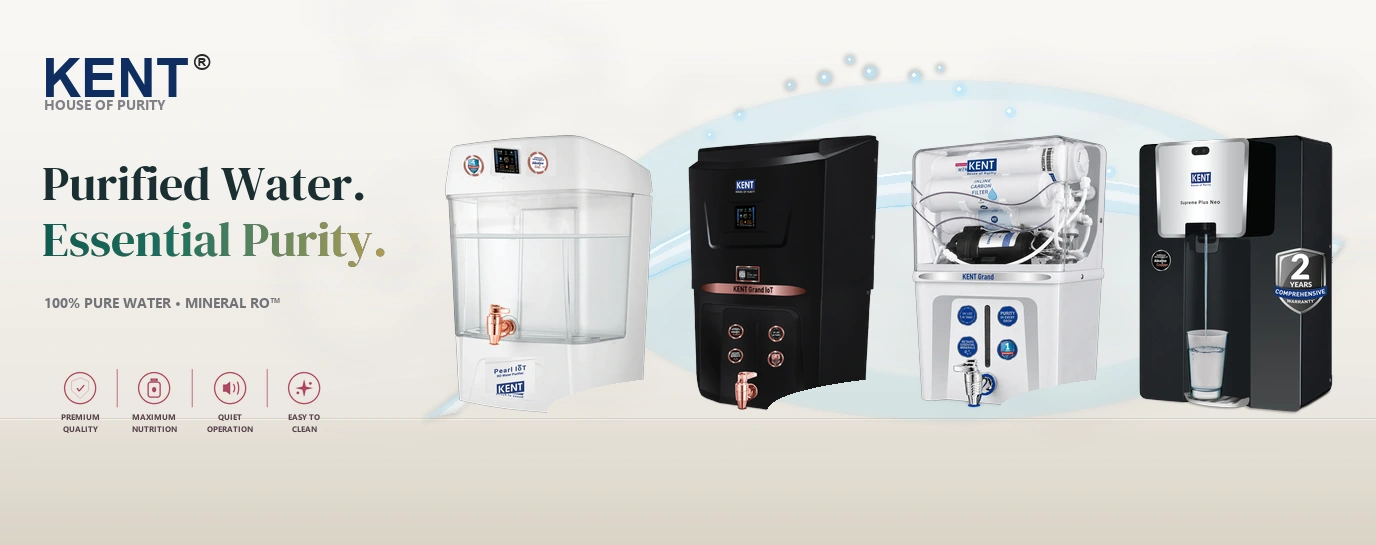
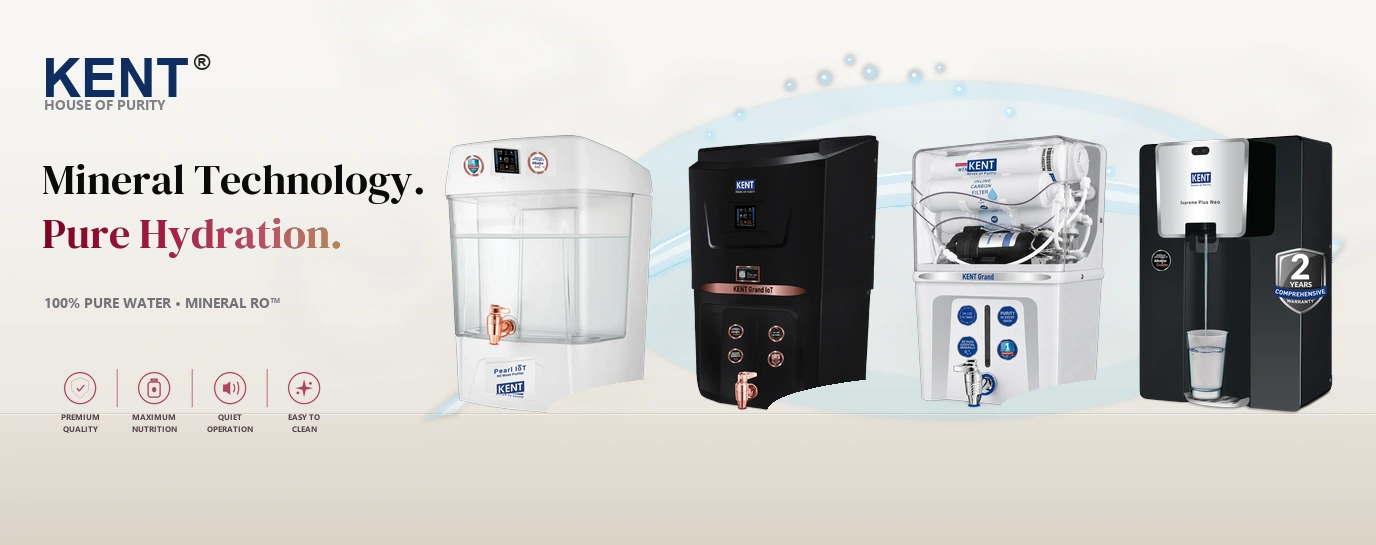
feat(hero): update tagline to Mineral Technology / Pure Hydration in DM Serif Display with website burgundy & gold palette

Changed region(s): [[0.0312, 0.2807, 0.3125, 0.3743], [0.0312, 0.4055, 0.2812, 0.4991]]

diff --git a/index.html b/index.html
@@ -140,7 +140,7 @@
                     <div class="detail-stage">
                         <div class="detail-stage-frame detail-stage-frame--poster">
                             <img class="detail-stage-poster" id="heroStagePoster"
-                                src="images/kent-purifiers-banner.webp?v=12.0" alt="KENT Water Purifiers lineup"
+                                src="images/kent-purifiers-banner.webp?v=13.0" alt="KENT Water Purifiers lineup"
                                 fetchpriority="high">
                         </div>
                     </div>

diff --git a/update_banner_tagline.py b/update_banner_tagline.py
@@ -6,51 +6,44 @@ WIDTH = 1376
 HEIGHT = 545
 
 # 1. Base Architectural Surface: Warm alabaster wall to grounded travertine floor
-# Wall: #F8F7F3 to #ECE8E1 (y: 0 to 425)
-# Floor plane: #E4DFD5 to #DAD4C8 (y: 425 to 545) with soft stone horizon
 banner = Image.new('RGB', (WIDTH, HEIGHT), (248, 247, 243))
 draw = ImageDraw.Draw(banner)
 
-FLOOR_Y = 418
+FLOOR_Y = 413
 
-# Draw Wall gradient (soft alabaster)
+# Draw Wall gradient (soft alabaster #F9F8F5 -> #ECE8E1)
 for y in range(FLOOR_Y):
     t = y / float(FLOOR_Y)
-    # #F9F8F5 (249, 248, 245) -> #ECE8E1 (236, 232, 225)
     r = int(249 - 13 * (t ** 1.2))
     g = int(248 - 16 * (t ** 1.2))
     b = int(245 - 20 * (t ** 1.2))
     draw.line([(0, y), (WIDTH, y)], fill=(r, g, b))
 
-# Draw Floor gradient (subtle grounded travertine/limestone plane)
+# Draw Floor gradient (grounded travertine/limestone plane #E7E2DA -> #DAD4C7)
 for y in range(FLOOR_Y, HEIGHT):
     t = (y - FLOOR_Y) / float(HEIGHT - FLOOR_Y)
-    # #E7E2DA (231, 226, 218) -> #DAD4C7 (218, 212, 199)
     r = int(231 - 13 * t)
     g = int(226 - 14 * t)
     b = int(218 - 19 * t)
     draw.line([(0, y), (WIDTH, y)], fill=(r, g, b))
 
-# Delicate floor horizon line with soft ambient contact occlusion
+# Floor horizon line with soft ambient contact occlusion
 draw.line([(0, FLOOR_Y), (WIDTH, FLOOR_Y)], fill=(215, 208, 196))
 draw.line([(0, FLOOR_Y + 1), (WIDTH, FLOOR_Y + 1)], fill=(245, 242, 236))
 
-# 2. Water Caustics Layer (Subtle, low-opacity 10-12% refracted sunlight effect across upper/mid wall)
+# 2. Water Caustics Layer (10-12% soft sun-refracted light web across upper/mid wall)
 caustic_layer = Image.new('RGBA', (WIDTH, HEIGHT), (0, 0, 0, 0))
 caustic_draw = ImageDraw.Draw(caustic_layer)
 
-# Create overlapping soft caustic light webs using bezier curves and light rings
 import random
 random.seed(42)
 
-# Cluster caustics mostly in top-right and center-right behind machines and upper wall
 for _ in range(35):
     cx = random.randint(300, WIDTH - 50)
     cy = random.randint(30, FLOOR_Y - 40)
     rx = random.randint(45, 110)
     ry = random.randint(25, 65)
     
-    # Caustic cell polygon / ellipse outline
     points = []
     num_pts = random.randint(5, 8)
     for i in range(num_pts):
@@ -64,7 +57,6 @@ for _ in range(35):
     caustic_draw.polygon(points, fill=(255, 255, 255, random.randint(8, 18)))
     caustic_draw.line(points + [points[0]], fill=(225, 245, 255, random.randint(18, 38)), width=random.randint(2, 4))
 
-# Soften caustics with Gaussian blur so they look like organic sunlight through crystal water
 caustic_layer = caustic_layer.filter(ImageFilter.GaussianBlur(16))
 banner = Image.alpha_composite(banner.convert('RGBA'), caustic_layer).convert('RGB')
 
@@ -72,13 +64,10 @@ banner = Image.alpha_composite(banner.convert('RGBA'), caustic_layer).convert('R
 water_arc_layer = Image.new('RGBA', (WIDTH, HEIGHT), (0, 0, 0, 0))
 arc_draw = ImageDraw.Draw(water_arc_layer)
 
-# Soft aqua/cyan ambient aura behind product cluster
 arc_draw.ellipse([580, 80, 1320, 420], fill=(56, 189, 248, 16))
 arc_draw.ellipse([700, 100, 1260, 380], fill=(186, 230, 253, 24))
 
-# Water Ribbon Path Coordinates: Sweeps gracefully up behind Pearl & Grand, crests behind Star & Supreme, and curves down
-# We draw layered translucent ribbons: Broad soft body, luminous core, and crisp specular crest
-def bezier_curve(p0, p1, p2, p3, steps=100):
+def bezier_curve(p0, p1, p2, p3, steps=120):
     pts = []
     for i in range(steps + 1):
         t = i / float(steps)
@@ -88,23 +77,18 @@ def bezier_curve(p0, p1, p2, p3, steps=100):
         pts.append((int(x), int(y)))
     return pts
 
-# Lower edge & Upper edge of sweeping water arc
-lower_pts = bezier_curve((420, 420), (620, 280), (840, 110), (1330, 260), steps=120)
-upper_pts = bezier_curve((460, 410), (640, 220), (860, 80), (1345, 240), steps=120)
+lower_pts = bezier_curve((420, 420), (620, 280), (840, 110), (1330, 260))
+upper_pts = bezier_curve((460, 410), (640, 220), (860, 80), (1345, 240))
 
-# Fill main water arc ribbon with translucent gradient
 ribbon_poly = lower_pts + upper_pts[::-1]
 arc_draw.polygon(ribbon_poly, fill=(186, 230, 253, 75))
 
-# Secondary luminous refraction ribbon (core)
-lower_core = bezier_curve((440, 415), (630, 255), (850, 100), (1335, 252), steps=120)
-upper_core = bezier_curve((455, 412), (638, 235), (858, 90), (1340, 246), steps=120)
+lower_core = bezier_curve((440, 415), (630, 255), (850, 100), (1335, 252))
+upper_core = bezier_curve((455, 412), (638, 235), (858, 90), (1340, 246))
 arc_draw.polygon(lower_core + upper_core[::-1], fill=(240, 249, 255, 110))
 
-# Specular light edge lines (pristine water crest refraction)
 for i in range(len(upper_pts) - 1):
     t = i / float(len(upper_pts))
-    # Alpha peaks around crest (t=0.5 to 0.75)
     alpha = int(220 * math.sin(t * math.pi))
     arc_draw.line([upper_pts[i], upper_pts[i+1]], fill=(255, 255, 255, alpha), width=3)
 
@@ -113,7 +97,6 @@ for i in range(len(lower_pts) - 1):
     alpha = int(140 * math.sin(t * math.pi))
     arc_draw.line([lower_pts[i], lower_pts[i+1]], fill=(125, 211, 252, alpha), width=2)
 
-# Tiny crystalline floating water drops/beads along the crest
 drops = [
     (790, 85, 4), (825, 78, 5.5), (870, 72, 6), (915, 76, 5), (960, 90, 4.5),
     (1010, 112, 5), (1060, 140, 4), (1110, 172, 5.5), (1165, 205, 4.5),
@@ -121,14 +104,10 @@ drops = [
 ]
 
 for dx, dy, dr in drops:
-    # Drop body
     arc_draw.ellipse([dx - dr, dy - dr, dx + dr, dy + dr], fill=(186, 230, 253, 140))
-    # Drop specular highlight
     arc_draw.ellipse([dx - dr*0.5, dy - dr*0.5, dx, dy], fill=(255, 255, 255, 230))
 
-# Soften outer edges slightly while keeping crest crisp
 water_arc_blurred = water_arc_layer.filter(ImageFilter.GaussianBlur(3))
-# Composite blurred + crisp core
 water_arc_composite = Image.alpha_composite(water_arc_blurred, water_arc_layer)
 banner = Image.alpha_composite(banner.convert('RGBA'), water_arc_composite).convert('RGB')
 
@@ -146,6 +125,7 @@ p3_clean = p_star.crop((315, 70, 923, 938))
 p_sup = Image.open('p_supreme.webp').convert('RGBA')
 p4_clean = p_sup.crop((311, 60, 916, 933))
 
+# Height 280 with py=135 guarantees 135px headroom above machines (no cropping)
 TARGET_H = 280
 purifiers = [
     ('Pearl IoT', p1_clean),
@@ -167,21 +147,17 @@ available_span = 1335 - start_x
 remaining_gap_total = available_span - total_models_w
 gap = remaining_gap_total // 3
 
-# Generous 135px headroom so top of machines never gets cropped
 py = 135
 base_y = py + TARGET_H  # 415px
-FLOOR_Y = 413
 
-# 5. Realistic Soft Pedestal & Contact Shadow Layer on the Travertine Floor
+# 5. Soft Contact Shadow Layer on the Travertine Floor
 shadow_layer = Image.new('RGBA', (WIDTH, HEIGHT), (0, 0, 0, 0))
 shadow_draw = ImageDraw.Draw(shadow_layer)
 
 def add_contact_shadow(cx, b_y, rx, ry, opacity=115):
-    # Base contact occlusion (dark, narrow)
     for i in range(5):
         f = 1.0 - (i / 5.0)
         shadow_draw.ellipse([cx - rx*0.75, b_y - 2 - i, cx + rx*0.75, b_y + 2 + i], fill=(30, 25, 20, int(opacity * 0.45 * f)))
-    # Ambient soft contact shadow pool
     for i in range(14):
         factor = 1.0 - (i / 14.0)
         cur_rx = int(rx * (1.0 + i * 0.14))
@@ -203,7 +179,7 @@ for name, res_im, w in scaled_purifiers:
 banner = Image.alpha_composite(banner.convert('RGBA'), shadow_layer).convert('RGB')
 draw = ImageDraw.Draw(banner)
 
-# 6. Left Typography Lockup with the New Tagline Format
+# 6. Left Typography Lockup: Brand + Website Burgundy/Gold Color Theme Tagline
 LEFT_X = 42
 font_bold = r'C:\Windows\Fonts\segoeuib.ttf'
 font_arial_bold = r'C:\Windows\Fonts\arialbd.ttf'
@@ -217,16 +193,18 @@ draw.text((LEFT_X, 48), 'KENT', font=font_logo_big, fill=(15, 45, 95))
 draw.text((LEFT_X + 152, 50), '®', font=font_logo_reg, fill=(40, 40, 40))
 draw.text((LEFT_X + 2, 94), 'HOUSE OF PURITY', font=font_tag, fill=(130, 130, 135))
 
-# NEW TAGLINE: "Purified Water." and "Essential Purity." in DM Serif Display
+# 7. TAGLINE IN DM SERIF DISPLAY WITH WEBSITE BURGUNDY & GOLD COLOR THEME
 font_dm_path = 'fonts/DMSerifDisplay-Regular.ttf' if os.path.exists('fonts/DMSerifDisplay-Regular.ttf') else 'DMSerifDisplay-Regular.ttf'
-f_tagline = ImageFont.truetype(font_dm_path, 48)
-text1 = "Purified Water."
-text2 = "Essential Purity."
+f_tagline = ImageFont.truetype(font_dm_path, 42)
 
-# Line 1: Solid Slate Charcoal #1A2E31
-draw.text((LEFT_X, 150), text1, font=f_tagline, fill=(26, 46, 49))
+text1 = "Mineral Technology."
+text2 = "Pure Hydration."
 
-# Line 2: Precision Linear Gradient (Pine Teal #105b50 -> Jade #1c705d -> Sage #698a5c -> Warm Olive Gold #b29e52)
+# Line 1: Crisp Dark Charcoal/Black #0A0A0A (matching reference line 1 contrast)
+draw.text((LEFT_X, 150), text1, font=f_tagline, fill=(10, 10, 10))
+
+# Line 2: Precision Multi-Stop Gradient matching Website Color Palette:
+# Regal Burgundy (#800020) -> Ruby Wine (#A81941) -> Velvet Rose (#C04B64) -> Warm Luxury Gold (#B98C50)
 dummy = Image.new('RGBA', (1, 1))
 d = ImageDraw.Draw(dummy)
 b2 = d.textbbox((0, 0), text2, font=f_tagline)
@@ -237,24 +215,19 @@ gradient_img = Image.new('RGB', (w2 + 4, h2 + 4))
 grad_draw = ImageDraw.Draw(gradient_img)
 
 stops = [
-    (0.0, (16, 91, 80)),      # Deep forest jade (#105b50)
-    (0.38, (28, 112, 93)),    # Rich emerald teal (#1c705d)
-    (0.68, (105, 138, 92)),   # Earthy sage (#698a5c)
-    (1.0, (178, 158, 82))     # Warm golden ochre (#b29e52)
+    (0.0, (128, 0, 32)),      # Signature Burgundy (#800020)
+    (0.40, (168, 25, 65)),    # Rich Ruby Wine (#A81941)
+    (0.72, (192, 75, 100)),   # Velvet Rose (#C04B64)
+    (1.0, (185, 140, 80))     # Warm Luxury Gold (#B98C50)
 ]
 
 for x in range(w2 + 4):
     t = x / float(w2 + 4)
-    if t <= stops[1][0]:
-        factor = (t - stops[0][0]) / (stops[1][0] - stops[0][0])
-        c0, c1 = stops[0][1], stops[1][1]
-    elif t <= stops[2][0]:
-        factor = (t - stops[1][0]) / (stops[2][0] - stops[1][0])
-        c0, c1 = stops[1][1], stops[2][1]
-    else:
-        factor = (t - stops[2][0]) / (stops[3][0] - stops[2][0])
-        c0, c1 = stops[2][1], stops[3][1]
-    
+    for i in range(len(stops) - 1):
+        if stops[i][0] <= t <= stops[i+1][0]:
+            factor = (t - stops[i][0]) / (stops[i+1][0] - stops[i][0])
+            c0, c1 = stops[i][1], stops[i+1][1]
+            break
     r = int(c0[0] + factor * (c1[0] - c0[0]))
     g = int(c0[1] + factor * (c1[1] - c0[1]))
     b = int(c0[2] + factor * (c1[2] - c0[2]))
@@ -267,8 +240,8 @@ mask_draw.text((2 - b2[0], 2 - b2[1]), text2, font=f_tagline, fill=255)
 line2_composite = Image.new('RGBA', (w2 + 4, h2 + 4), (0, 0, 0, 0))
 line2_composite.paste(gradient_img, (0, 0), mask)
 
-# Paste line 2 at y=206
-banner.paste(line2_composite, (LEFT_X + b2[0] - 2, 206 + b2[1] - 2), mask)
+# Paste line 2 at y=204
+banner.paste(line2_composite, (LEFT_X + b2[0] - 2, 204 + b2[1] - 2), mask)
 
 # Subtitle / Add-on
 font_sub = ImageFont.truetype(font_bold, 14)
